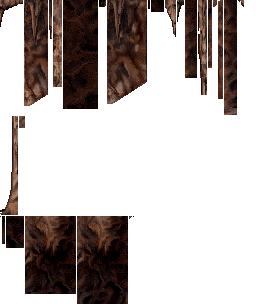
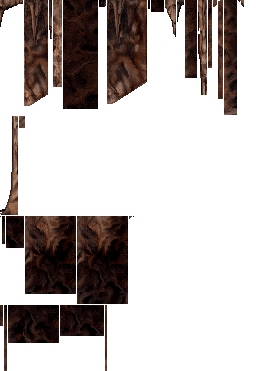
Apply approved room thirty shadow and colour seam fades

Changed region(s): [[0.0, 0.0, 0.9375, 1.0], [0.9375, 0.0, 0.9688, 0.0296]]

diff --git a/tests/test_cavern_retouch.py b/tests/test_cavern_retouch.py
@@ -14,10 +14,10 @@ from pop2.terrain import LevelMap
 
 
 class BundledCavernRetouchTests(unittest.TestCase):
-    def test_only_three_rooms_have_bundled_variants_with_valid_crop_sizes(self):
+    def test_only_four_rooms_have_bundled_variants_with_valid_crop_sizes(self):
         assets = retouch_assets()
-        self.assertEqual(len(assets), 27)
-        self.assertEqual({key[0] for key in assets}, {0, 1, 27})
+        self.assertEqual(len(assets), 32)
+        self.assertEqual({key[0] for key in assets}, {0, 1, 27, 29})
         for key, (record, image) in assets.items():
             with self.subTest(key=key):
                 x1, y1, x2, y2 = record['source_rect']
@@ -30,7 +30,7 @@ class BundledCavernRetouchTests(unittest.TestCase):
     def test_unaffected_rooms_do_not_even_load_retouch_assets(self):
         source = Image.new('RGBA', (5, 5), 'red')
         with patch('pop2.cavern_retouch.retouch_assets', side_effect=AssertionError('Unexpected load')):
-            for room in set(range(32)) - {0, 1, 27}:
+            for room in set(range(32)) - {0, 1, 27, 29}:
                 self.assertIs(retouched_sprite(room, [], source), source)
 
     def test_unmatched_sources_and_other_shape_libraries_are_untouched(self):
@@ -69,7 +69,8 @@ class CavernRetouchTests(unittest.TestCase):
     def test_local_variants_reproduce_approved_images_exactly(self):
[5 lines of base64/hex data omitted]
         for room, expected in hashes.items():
             with self.subTest(room=room):
                 native = cavern_room(room)
@@ -92,13 +93,46 @@ class CavernRetouchTests(unittest.TestCase):
         self.assertEqual(opened.crop((35, 0, 151, 245)).tobytes(), closed.crop((35, 0, 151, 245)).tobytes())
         self.assertEqual(closed.crop((185, 135, 281, 220)).tobytes(), native.crop((185, 135, 281, 220)).tobytes())
 
-    def test_other_twenty_nine_rooms_remain_pixel_identical(self):
-        for room in set(range(32)) - {0, 1, 27}:
+    def test_other_twenty_eight_rooms_remain_pixel_identical(self):
+        for room in set(range(32)) - {0, 1, 27, 29}:
             with self.subTest(room=room):
                 native, edited = cavern_room(room), cavern_room(room, retouched=True)
                 self.assertEqual(native.background.tobytes(), edited.background.tobytes())
                 self.assertEqual(native.foreground.tobytes(), edited.foreground.tobytes())
                 self.assert_masks_equal(native, edited)
+
+    def test_room_thirty_only_changes_marked_margins_not_foreground_or_column_outlines(self):
+        from PIL import ImageChops, ImageDraw, ImageFilter
+        from pop2.caverns import clipped_sprite
+
+        program, resources, palette, shapes = cavern_assets()
+        native, edited = cavern_room(29), cavern_room(29, retouched=True)
+        self.assertEqual(native.foreground.tobytes(), edited.foreground.tobytes())
+        before, after = native.flattened().convert('RGB'), edited.flattened().convert('RGB')
+        protected = Image.new('L', before.size)
+        for command in program['rooms']['29']:
+            if 3531 <= command[1] <= 3538 or command[0] == 'front':
+                clipped = clipped_sprite(cavern_command_sprite(command, resources, palette, shapes), command)
+                if clipped is not None:
+                    sprite, position = clipped
+                    part = Image.new('L', before.size)
+                    part.paste(sprite.getchannel('A'), position)
+                    protected = ImageChops.lighter(protected, part)
+        protected = protected.filter(ImageFilter.MaxFilter(3))
+        allowed = Image.new('L', before.size)
+        for trace in (((47, 295), (56, 295)),
+                      ((73, 268), (91, 268), (91, 296), (89, 296)),
+                      ((142, 287), (142, 307)), ((448, 27), (448, 95))):
+            ImageDraw.Draw(allowed).line(trace, fill=255, width=5)
+        changed = [(x, y) for y in range(before.height) for x in range(before.width)
+                   if before.getpixel((x, y)) != after.getpixel((x, y))]
+        colours = {tuple(c[:3]) for c in palette.values()}
+        self.assertEqual(len(changed), 385)
+        self.assertEqual(sum(y < 125 for x, y in changed), 206)
+        for point in changed:
+            self.assertTrue(allowed.getpixel(point), point)
+            self.assertFalse(protected.getpixel(point), point)
+            self.assertIn(after.getpixel(point), colours)
 
     def test_room_two_preserves_column_texels_and_only_changes_approved_shadow_edges(self):
         from PIL import ImageChops, ImageDraw, ImageFilter
@@ -195,17 +229,17 @@ class CavernRetouchTests(unittest.TestCase):
         game = LevelRenderer(level, preload_room=False)
         reference = LevelRenderer(level, preload_room=False, retouch_caverns=False)
         for room in range(32):
-            expected = cavern_room(room, animated=True, retouched=room in (0, 1, 27))
+            expected = cavern_room(room, animated=True, retouched=room in (0, 1, 27, 29))
             self.assertEqual(game.room(room).flattened().tobytes(), expected.flattened().tobytes())
             self.assertEqual(reference.room(room).flattened().tobytes(), cavern_room(room, animated=True).flattened().tobytes())
 
     def test_retained_pixels_do_not_propagate_retouch_into_adjacent_rooms(self):
         level = LevelDefinition.read(load_resource_file('Prince.rsrc'), 3)
         terrain = LevelMap(level.data)
-        for source in (0, 1, 27):
+        for source in (0, 1, 27, 29):
             for direction in ('left', 'right', 'up', 'down'):
                 destination = terrain.neighbor(source, direction)
-                if destination is None or destination in (0, 1, 27):
+                if destination is None or destination in (0, 1, 27, 29):
                     continue
                 with self.subTest(source=source, destination=destination):
                     game = LevelRenderer(level, preload_room=False)

diff --git a/pop2/cavern_retouch.py b/pop2/cavern_retouch.py
@@ -21,7 +21,7 @@ def retouch_assets():
 
 
 def retouched_sprite(room, command, source):
-    if room not in (0, 1, 27) or len(command) < 8 or command[7] != 4:
+    if room not in (0, 1, 27, 29) or len(command) < 8 or command[7] != 4:
         return source
     key = (room, command[1], command[2], command[3], command[4])
     item = retouch_assets().get(key)

diff --git a/README.md b/README.md
@@ -158,7 +158,7 @@ I also improved the sound played while the gate opens. The original had noticeab
 - The level 1 screen 7-8 drop preserves the full landing and stand-up animation, matching DOS behavior instead of the abrupt interruption in the Macintosh original.
 - Completely overhauled lava pools with detailed rocky edges, convincing depth like the DOS version, seamless bubbling, and properly layered splashes and particles.
 - Reworked stone-gate closing and crushing animation, with a timed slam and seamless opening audio without the original gaps or end click.
-- Local cavern-art retouches soften harsh shadow seams in level 3 rooms 1, 2 and 28, without changing the same pieces elsewhere.
+- Local cavern-art retouches soften harsh shadow seams in level 3 rooms 1, 2, 28 and 30, without changing the same pieces elsewhere.
 - Dock guards stay in standby once the Prince catches the boat, instead of switching back into combat during the escape.
 - Shift+Back with the sword drawn turns the Prince manually. Unlike the original toggle, this leaves automatic turning enabled.
 - While floating, the Prince is pushed back from obstructing scenery instead of scraping along it as in the Macintosh original.
